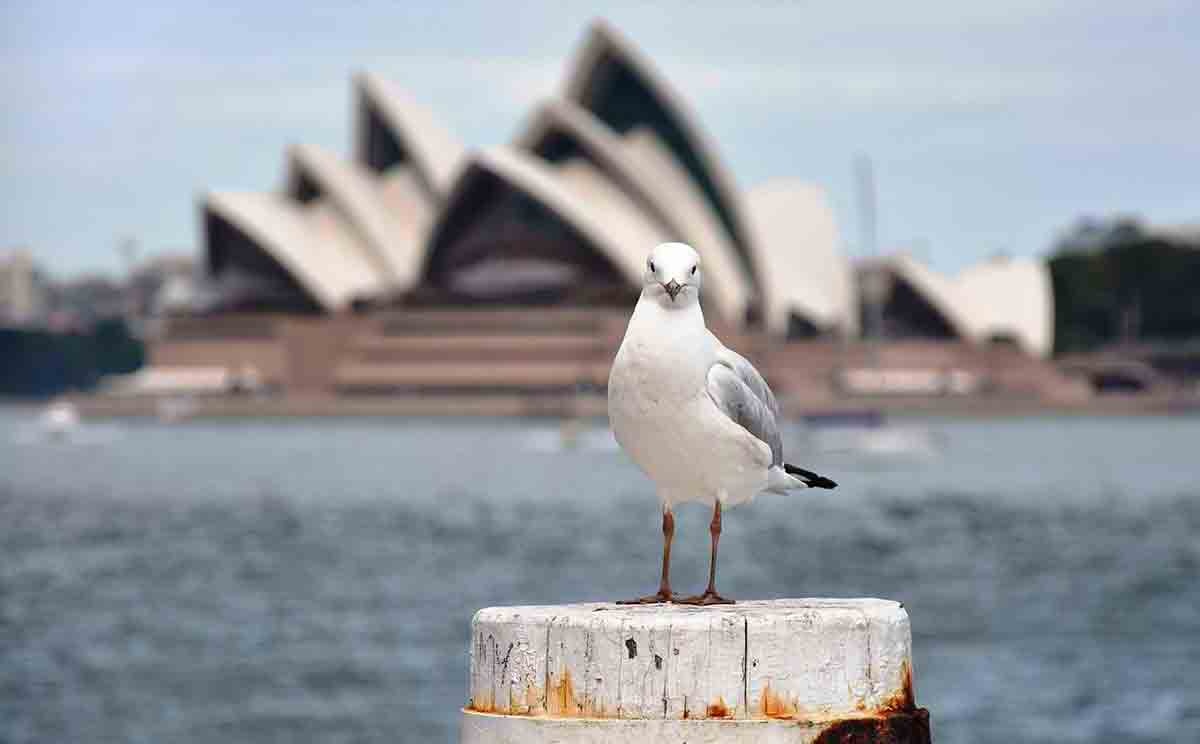
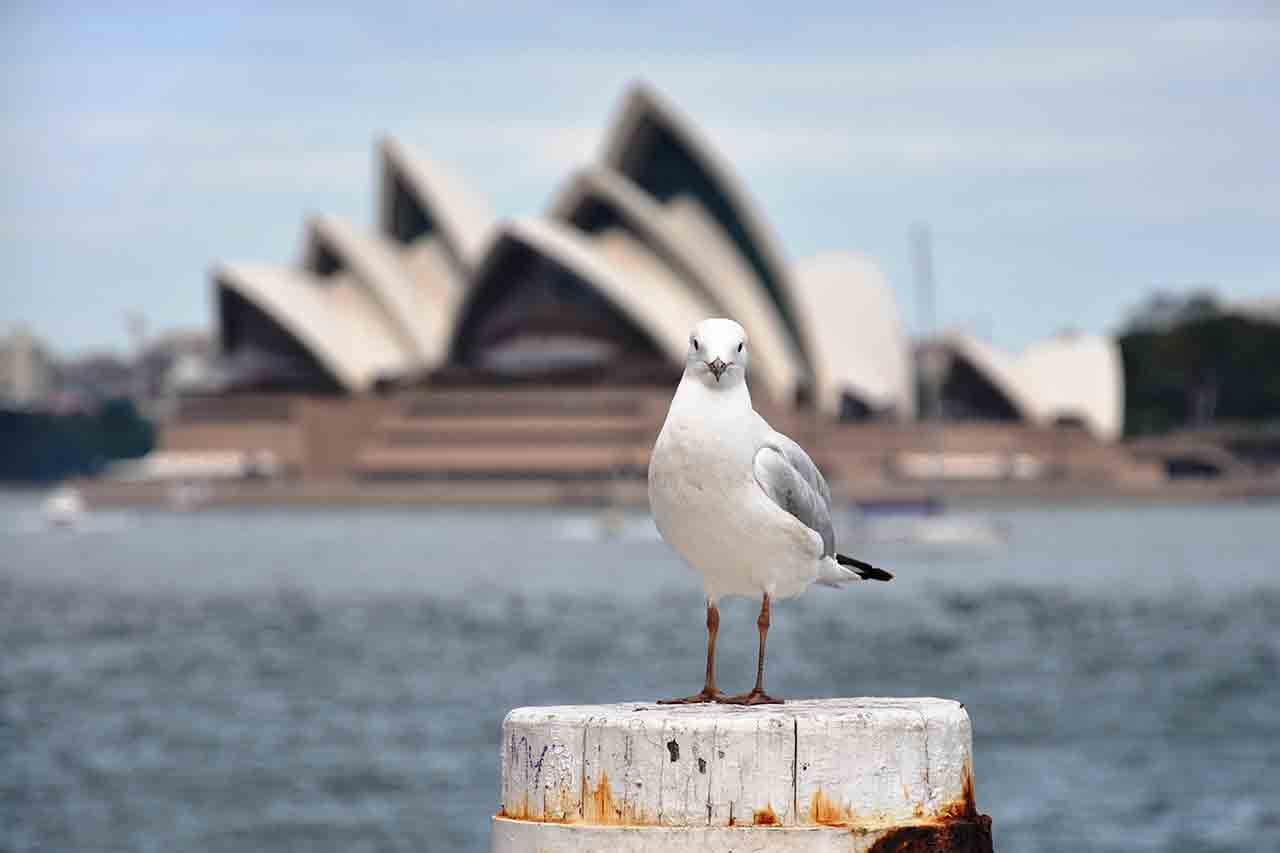
a months worth of changes

diff --git a/unit_8/index.html b/unit_8/index.html
@@ -12,63 +12,73 @@
 	<link rel="stylesheet" type="text/css" media="screen" href="css/style.css"> 
 	<link rel="stylesheet" href="https://use.fontawesome.com/releases/v5.7.0/css/all.css" integrity="sha384-lZN37f5QGtY3VHgisS14W3ExzMWZxybE1SJSEsQp9S+oqd12jhcu+A56Ebc1zFSJ" crossorigin="anonymous">
 </head>
-
 	<body>
-
 		<header>
-			<div class="slogan_and_logo">
-				<img class="slogan_and_logo" src="image/#.jpg">
-				<h1 class="slogan_and_logo">Sydney Scenic Private Tours</h1> 
-				<h2 class="slogan_and_logo">Be our guest!!!</h2>
+				<div class="slogan">
+					<h2>Be our guest!!!</h2>
+				</div>
+				<div class="logo">
+					<img src="image/sspt_logo_tower_nb.jpg" alt="Sydney Scenic Private Tours logo" title="Sydney Scenic Private Tours logo">
+				</div>
+				<div class= "number">
+					<h2>1300 38 38 04</h2>
+				</div>
+			<div class="hero">
+				<img src="image/hero_seagull_lge.jpg">
 			</div>
-			<div class="number">1300 343 
-			<img src="image/hero_seagull_lge.jpg">
 			<nav class="clearfix">
 				<a href="index.html">Home</a>
-				<a href="tours.html">Tours</a>
+				<a href="tours.html">About Us</a>			
+				<a href="blog.html">Blog</a>
 				<a href="contact_us.html">Contact Us</a>
-				<a href="blog.html">Blog</a>			
-			</nav>  
+			</nav>
 		</header>	
-
 		<section class="clearfix">
-			<h1>Discover the great attractions and hidden gems of Sydney and its surrounds!</h1>
-				<div class=SSHD>
-					<img="">
-					<button class="btn">Book Tour</button>
+				<h1>Discover the great attractions and hidden gems of Sydney and its surrounds!</h1>
+				<div class="left_col">
+					<p>The city of Sydney exudes a vibrancy, diversity and openness that urges the international traveller to embrace its unique offerings and majestic panoramas.</p>
+					<br/>
+					<p>Sydney Scenic Private Tours offer a range of group itineraries which can be customised to create the best possible experience for each individual group. We want to showcase the iconic Sydney attractions, of course, we also delve further and expose those lesser-known locales. Our tours take you deep into the city centre, its incredible coastline and national parks.</p>
+					<br/>
+					<p>Australia is not just about its vistas. It has a relatively short history but one full of interest. We want to share its Aboriginal heritage, early European beginnings and the multicultural nation that it is today.</p>
+					<br/>
 				</div>
-				<div class=SSCT>
-					<img src="image/#.jpg" alt="#">
-					<button class="btn">Book Tour</button>
+				<div class="right_col">
+					<p>Our pricing structure aims to provide superior value for groups of 4-24 passengers. We are proud of our client-based approach and commitment to ensuring your memories of Sydney will be full of joy and last a lifetime.</p>
+					<br/>
+					<p>So let’s get out there and experience one of the great modern cities of the world.</p>
+					<br/>
 				</div>
-				<div class=NBNP>
-					<img= src="image/#.jpg" alt="#">
-					<button class="btn">Book Tour</button>
-				</div>
-				
-			</section>
-
+		</section>
+		<section class="tour_gallery">
+			<div class="ssbb">
+					<img src="image/bondi_pools_lge.jpg" alt="View of Bondi Beach and pools from iconic Iceburgs" title="View of Bondi Beach and pools from iconic Iceburgs">
+			</div>
+			<div class=ssct>
+					<img src="image/harbour_bridge_sth_pylon_lge.jpg" alt="view from southern pylon of Sydney Harbour Bridge" title="view from southern pylon of Sydney Harbour Bridge">
+			</div>
+			<div class=nbnp>
+					<img src="image/kuringai_national_park_lge.jpg" alt="Kuringai National Park view" title="Kuringai National Park view">
+			</div>
+		</section>
 		<footer class="clearfix">
 
-			<div id="left">
+			<section id="left">
 				<p>Contact Us: <a href="mailto:info@sspt.com.au">info@sspt.com.au</a></p>
 				<p>Mobile: 0435 472 174</p>
-				<p>images by various artists from <a href="https://www.dreamstime.com">www.dreamstime.com</a></p>
-				<p>Written by <a href=mailto:sharon.srbwebdesign@gmail.com">SRB Web Design</a></p>
-			</div>
+			</section>
 
-			<div id="middle">
-				<span><a href="image/insta_button"></span>
-				<span><a href="image/trip_advisor_button"></span>
-				<span><a href="image/facebook_button"></span>
-			</div>
+			<section id="middle">
+				<span class="insta"><img src="image/insta_icon_black_lge.jpg"></span>
+				<span class="tripadvisor"><img src="image/tripadvisor_icon_lge.jpg"></span>
+				<span class="fbook"><img src="image/fb_icon_black_lge.jpg"></span>
+			</section>
 
-			<div id="right">
+			<secton id="right">
 				<p>Copyright &#160 Sydney Scenic Private Tours</p>
-				<p>images by various artists from
-				<a href="https://www.dreamstime.com">www.dreamstime.com</a></p>
+				<p>Images by various artists from <a href="https://www.dreamstime.com">www.dreamstime.com</a></p>
 				<p>Written by <a href=mailto:sharon.srbwebdesign@gmail.com">SRB Web Design</a></p>
-			</div>
+			</section>
 
 		</footer>
 

diff --git a/unit_8/css/style.css b/unit_8/css/style.css
@@ -5,7 +5,7 @@ Print - 30mm of total horizontal length
 Digital reproduction - 150px of total horizontal length
 
 Main Colour palette:
-Blue - #6594C2
+Blue #6594C2
 Teal #0F394B
 Tan #BEA692
 Red #420A09
@@ -30,65 +30,60 @@ header, footer, a{
 }
 html, body{
   margin: 0 auto;
-  max-width: 1200px;
+  max-width: 1280px;
+  font-size: 16px;
   font-family: 'Montserrat', sans-serif;
+  background-color:#ffffff;
+  color: #142643; 
 }
 header{
-  width:100%^;
-  font-family: 'Oswald', sans-serif;
-  font-weight: 700;
+  width:100%;
   margin: 0 auto;
- 
+  background-color:#142643;
 }
-/* Other CSS Styles */
-div.slogan_and_logo{
-  color: white;
-  background-color: #0F394B; 
-  float:right;
-}
-img.slogan_and_logo{
-  height:200px;
-  width:200px;
-  background-image:"image/sspt_logo_square_sml.jpg";
-  border-radius:50%;
-  padding: 20px;
-  display:block;
-  float: left;
-}
-h1.slogan_and_logo{
-  font-size: 2.0em;
-  padding-top: 60px;
-}
-h2.slogan_and_logo{
-  color: #BEA692;
-  font-size: 50px;
-  padding-left: 400px;
-  padding-right: 200px;
-}
-.tour_button {
-  background-color: #420A09;
-  border: none;
-  color: white;
-  padding: 15px 32px;
+header h1 {
+  color: #82a5c4; 
   text-align: center;
-  text-decoration: none;
-  display: inline-block;
-  font-size: 16px;
-  margin: 4px 2px;
-  cursor: pointer;
+  font-size: 4.37em;
+  padding-top: 1.87em;
 }
-
+header h2{
+  color: #bea692;
+  text-align: center;
+  font-size: 2.5em;
+}
+/* Other CSS Styles */ 
+div.slogan{
+  width:33.33%;
+  float: left;
+  text-align: center;
+  padding-top: 6.25em;
+}
+div.logo{
+  width:33.33%;
+  float: left;
+  text-align: center;
+}
+div.number{
+  width:33.33%;
+  float: left;
+  text-align: center;
+  padding-top: 6.25em;
+}
 nav{
   background-color: #0F394B;
   font-family: 'Montserrat', sans-serif;
  }
-a{
+nav a{
   background-color: #420A09;
-  color: white;
+  color: #bea692;
   text-decoration: none;
   display: block;
   float: left;
-  padding: 15px; 
+  padding: .94em; 
+}
+nav a:hover{
+  background-color: #0F394B;
 }
 .clearfix:after{
   visibility: hidden;
@@ -98,32 +93,78 @@ a{
   height: 0;
   font-size: 0;
 }
-a:hover{
-  background-color: #0F394B;
+section.clearfix{
+  width:100%;
+  background-color: #ffffff;
+  color:#142643;
+  text-align: justify;
+  padding-left: .625em;
+  padding-top: .93em;
+  padding-bottom: .93em;
 }
-#main {
-  background-color: #BEA692;
-  padding: 20px;
+h1{
+  color:#bea692;
+  font-size: 1.875em;
+  text-align: center;
+}
+div.left_col{
+  width:49%;
+  text-align: left;
+  padding-right: .5%;
   float:left;
-  width:56%;
+}
+div.right_col{
+  width:49%;
+  text-align: left;
+  padding-left: .5%;
+  float:left;
+}
+.tour_gallery{
+  width:100%;
+  padding-left:1.4em;
+  background-color:#0f394b;
+}
+div.ssbb {
+  float:left;
+  width:33.3%;
+  padding-top: 1.25em;
+  padding-bottom:1.25em;
+}
+div.ssct {
+  float:left;
+  width:33.3%;
+  padding-top: 1.25em;
+  padding-bottom:1.25em;
+}
+div.nbnp {
+  float:right;
+  width:33.3%;
+  padding-top: 1.25em;
+  padding-bottom:1.25em;
 }
 footer.clearfix{
+  width:100%;
   background-color: #0F394B;
-  padding:20px;
+  color: #bea692;
+  padding-top: 1.25em;
+  padding-bottom: 1.25em;
+  padding-left: 1.25em;
 }
-footer div#left{
-  background-color:#BEA692;
-  border: 1px black solid;
-  padding: 20px;
+footer section#left{
+  width:33.3%;
   float: left;
 }
-.no_button a {
-  background-color: none;
-  color: #420A09;
+footer section#middle{
+  width:33.3%;
+  float: left;
 }
-footer div#right{
-  background-color:#6594C2;
-  border: 1px black solid;
-  padding: 20px;
-  float: right;
+footer section#right{
+  width:33.3%;
+  float: left;
+}
+footer a{
+  color: #82a5c4;
+}
+footer a:hover{
+  color: #420a09;
 }
